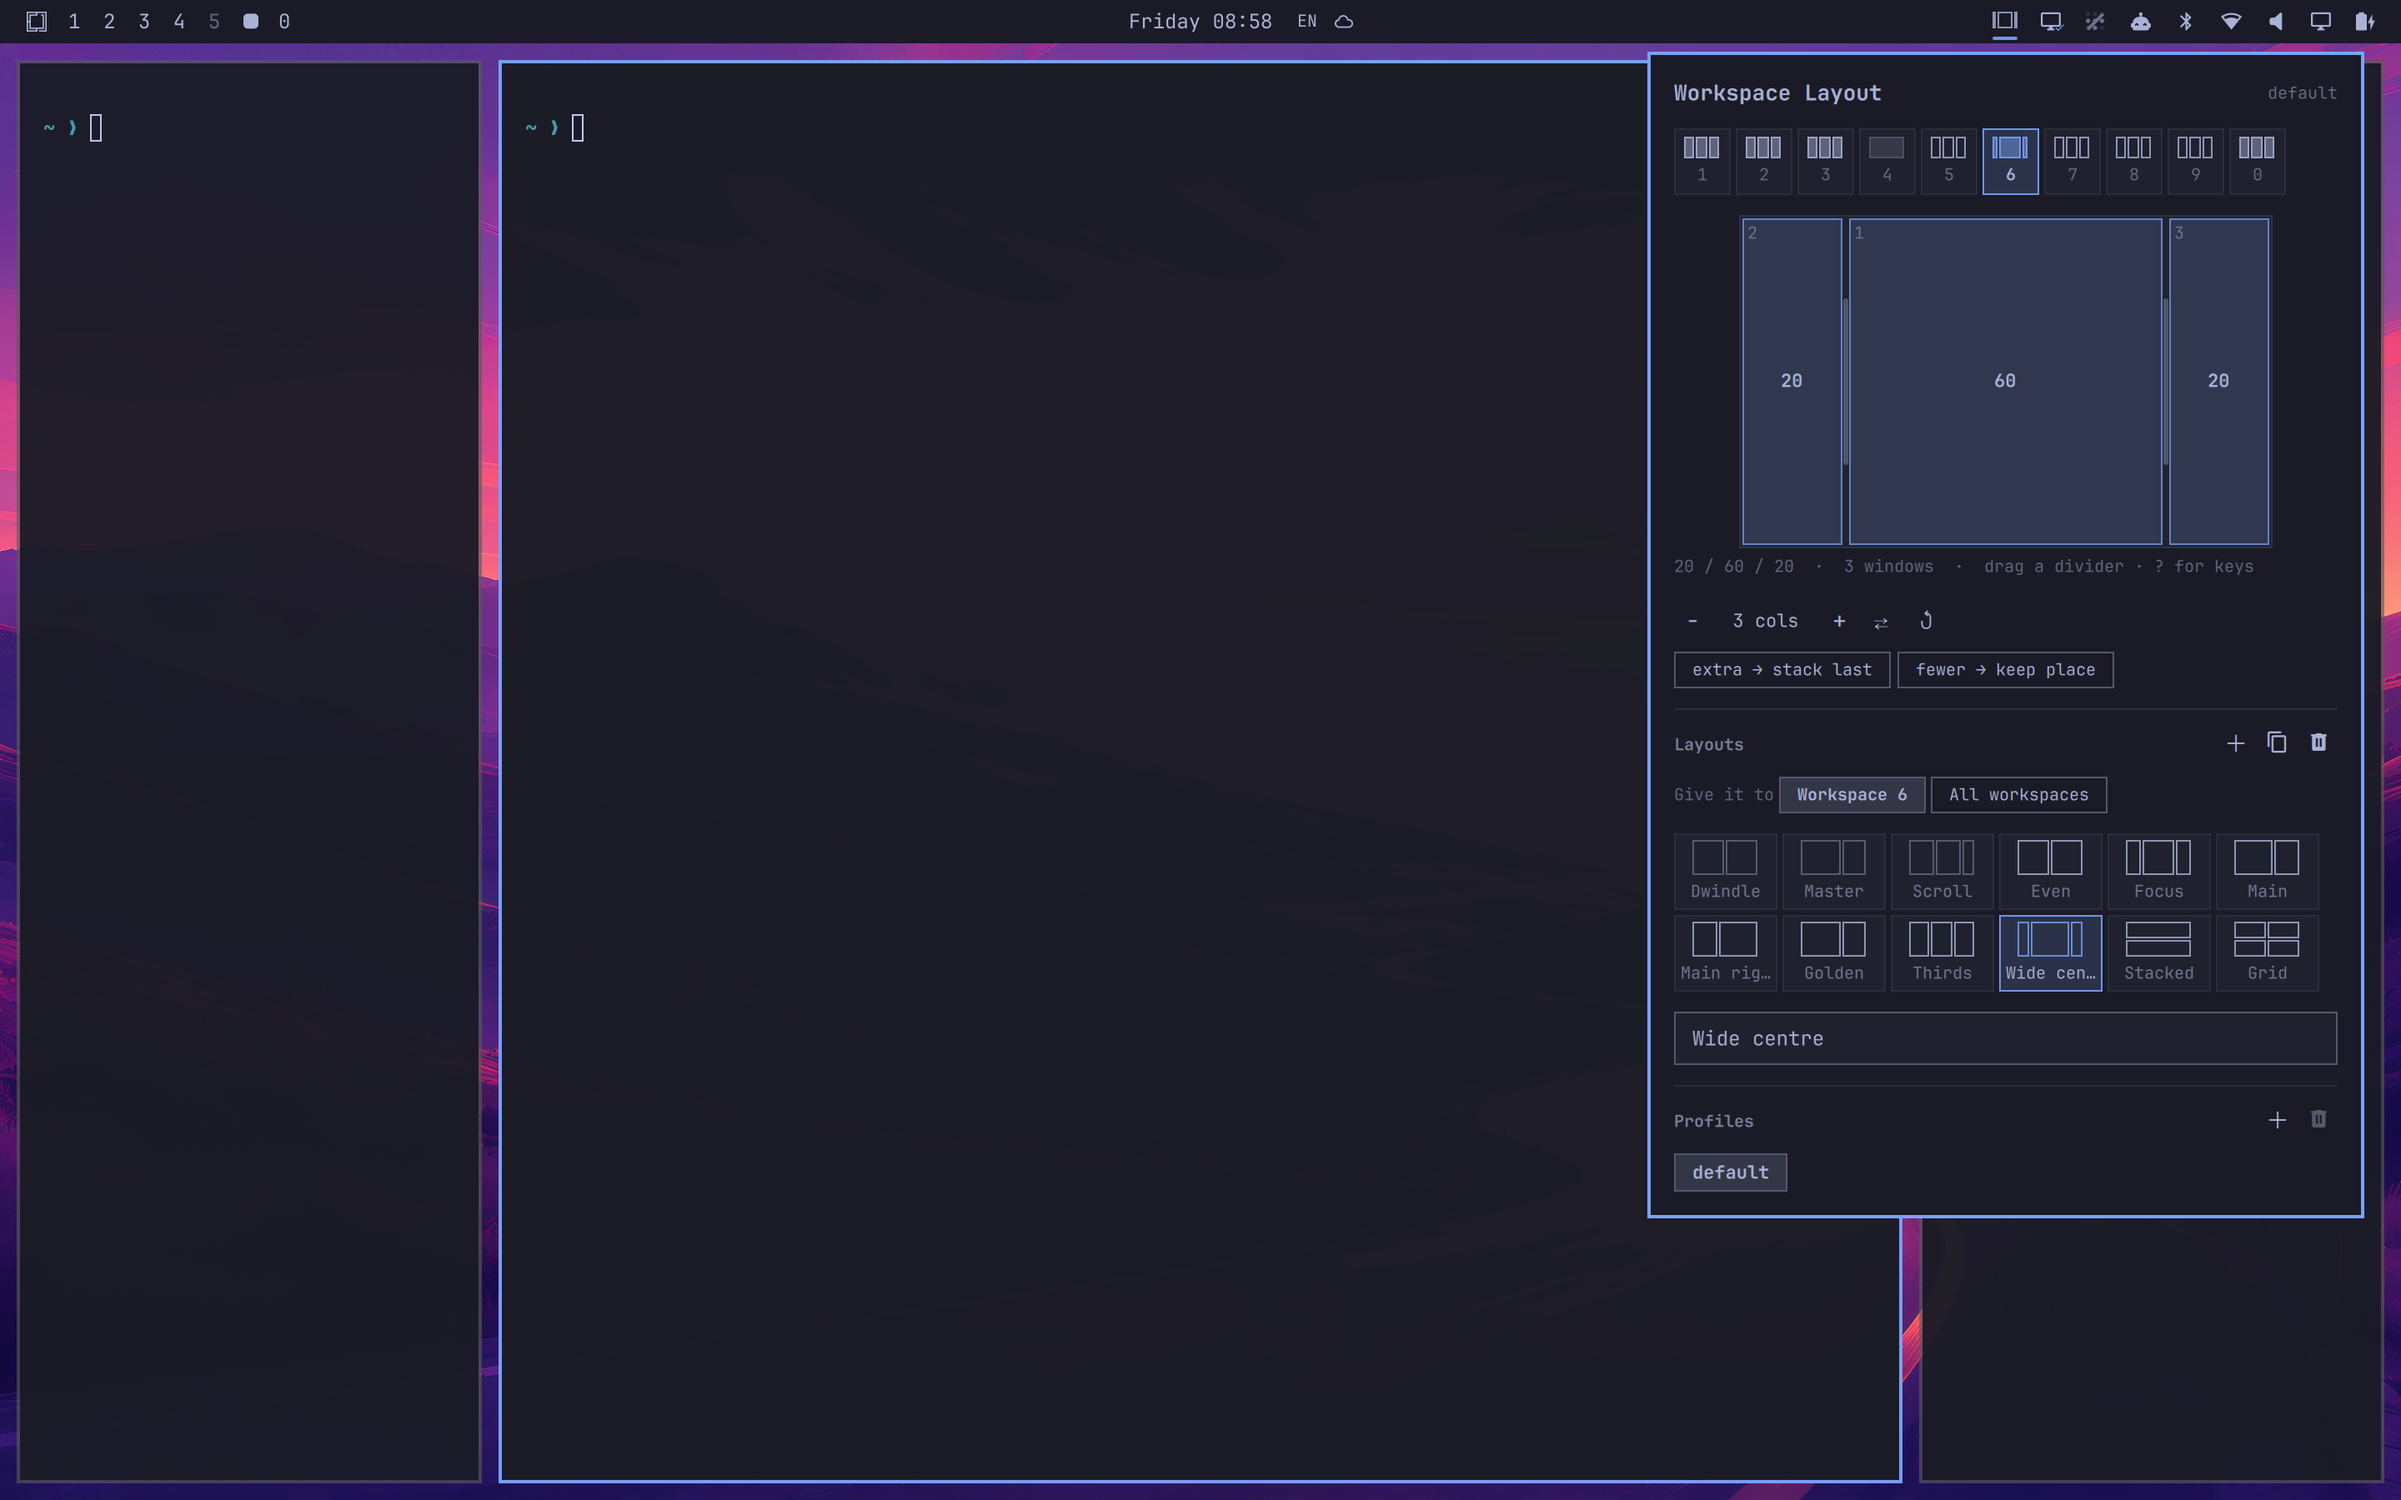
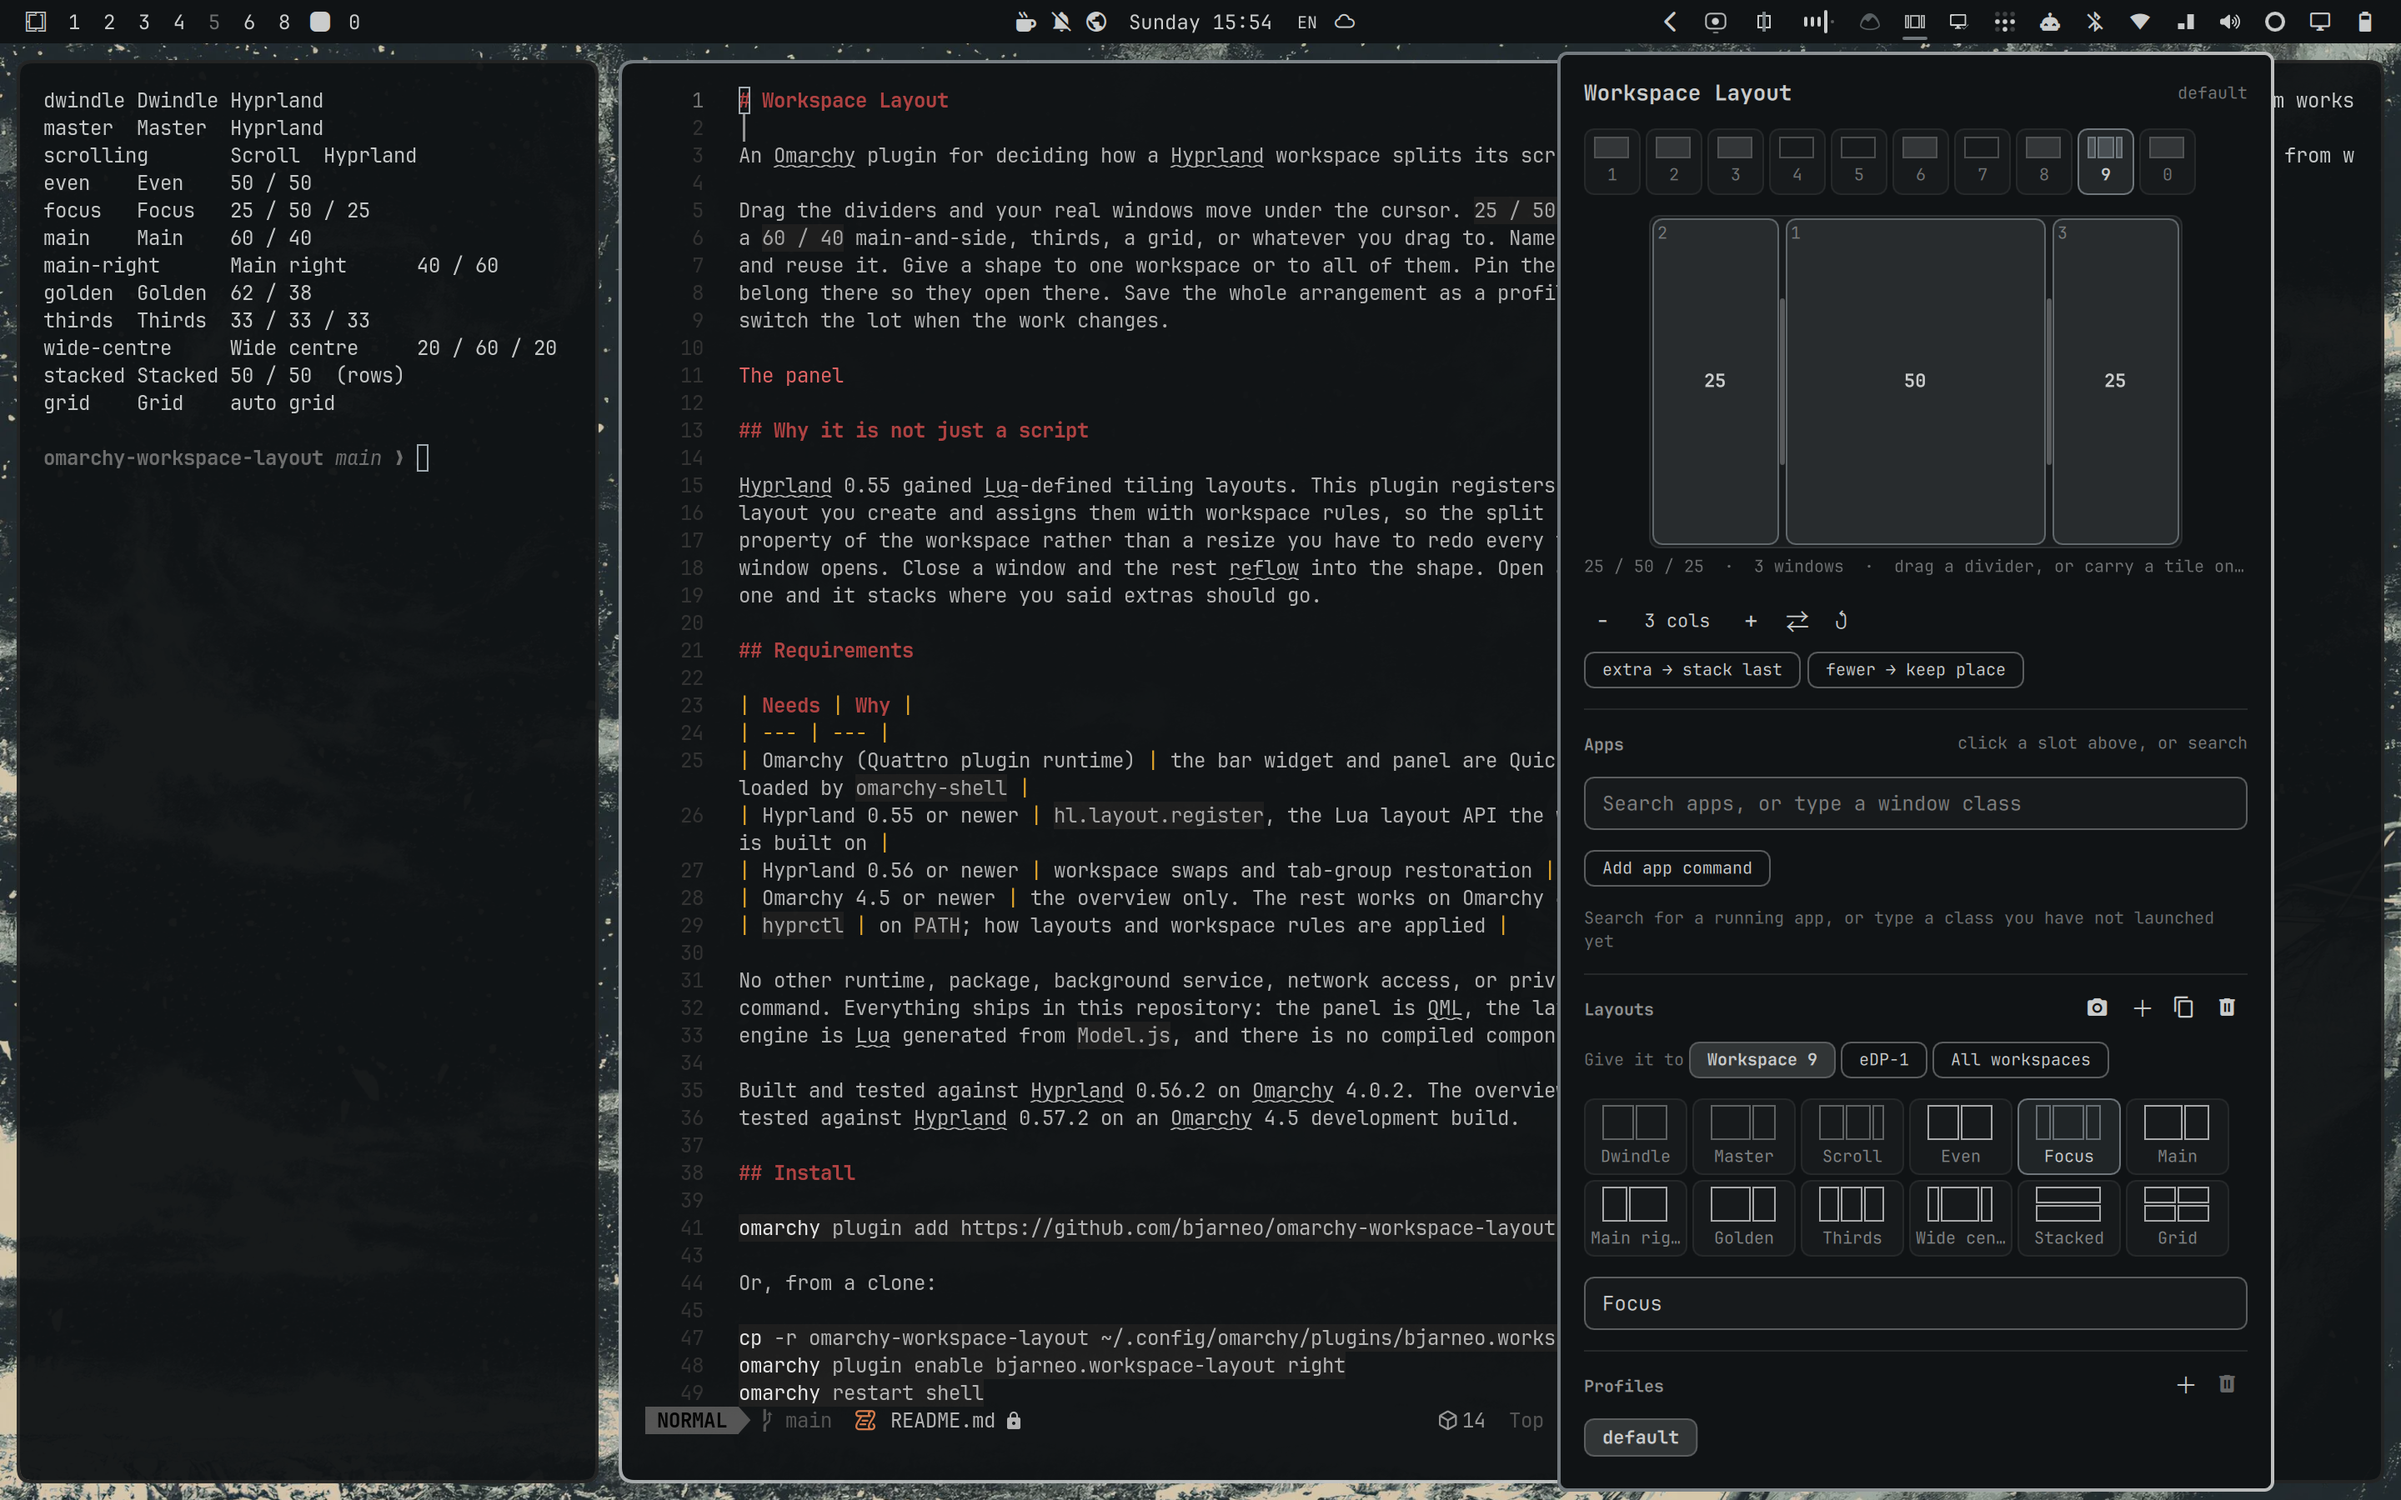
Show the current panel and the overview in the screenshots
The marketplace preview and the README panel screenshot showed the panel from 2026-09-04, before the Apps section and the capture and monitor buttons. Both now show the current panel over three windows tiled 25 / 50 / 25 by the Focus layout. The README also shows the overview.

diff --git a/README.md b/README.md
@@ -383,6 +383,8 @@ Click a card or press its number to go there. The last card goes to the lowest
 free workspace and opens the panel, so you can pick a layout for it. `Esc`
 closes the overview. [docs/cli.md](docs/cli.md#the-overview) lists every key.
 
+![The overview](screenshots/overview.png)
+
 ### A keybinding
 
 The panel answers on the shell's IPC bus, so bind it in
